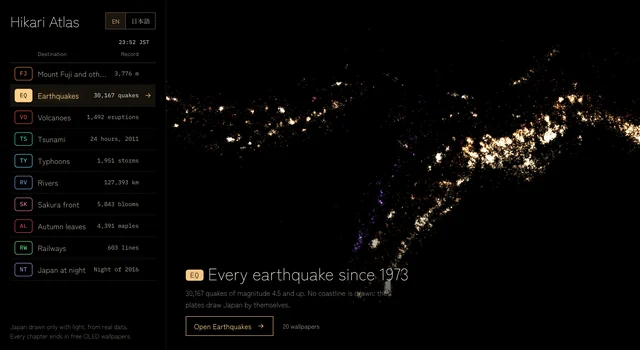
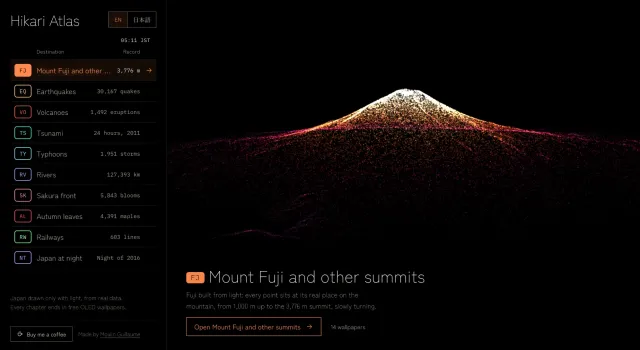
[UPDATE] Hikari Atlas hero shot and project copy
The hero and project card now show the front page with the live Fuji animation, which presents the whole atlas instead of a single wallpaper. The tagline, stinger and goal text in EN and FR now describe the full project and its ten chapters rather than a few datasets, and no longer mention the original idea's creator.

diff --git a/src/app/i18n/projects.ts b/src/app/i18n/projects.ts
@@ -307,12 +307,12 @@ type CopyBySlug = Record<string, ProjectCopy>;
 const EN_COPY: CopyBySlug = {
 	"hikari-atlas": {
 		tagline:
-			"Japan drawn only with light, from real scientific data, and given away as free OLED wallpapers.",
+			"An atlas of Japan drawn only with light, where every picture comes from real scientific data.",
 		stinger:
-			"Every earthquake since 1973, every typhoon since 1951 and every river in the country, turned into 45 wallpapers whose unlit pixels are switched off.",
+			"Ten subjects, from Mount Fuji to the country at night, each in its own colour of light. Every chapter animates its data live, explains how it was drawn, and ends in free wallpapers.",
 		goal: [
-			"On an OLED screen a black pixel is not dark, it is off. I liked the idea of wallpapers built on that: images made only of light, where everything that is not data costs nothing. The idea is not mine. Blackbody, by Alistair Roberts, does it for science in general, and the site credits it. What I wanted was the same idea pointed at one country, the one I lived in for eight years, with its own data, its own renders and a site that looks nothing like the original.",
-			"Japan is an unusually good subject for it. It shakes, erupts, floods and blooms on a schedule, and its agencies publish all of it. The earthquakes draw the plate boundaries without a single line of coast, the rivers draw the islands by themselves, and the railways draw the cities.",
+			"On an OLED screen a black pixel is not dark, it is off. Hikari Atlas is built on that idea: Japan drawn only with light, where everything that is not data stays switched off. I wanted to take the country I lived in for eight years and see how much of it could be told with real data alone, one subject at a time, each in its own colour.",
+			"Japan is an unusually good subject for it. It shakes, erupts, floods and blooms on a schedule, and its agencies publish all of it. Each chapter shows a different side of it: the earthquakes trace the plate boundaries without a single line of coast, the rivers draw the islands by themselves, the sakura and autumn fronts cross them with the seasons, and the railways and the night lights show where people live.",
 			"The other goal was the one behind The Obsidian Table, pushed further: see how far I could get by directing an AI agent on something I could not have built alone, in fields I did not know. Seismology, hydrology, tsunami simulation and seasonal phenology were not on my CV, and I wanted to understand how each picture was made, not just to own it.",
 		],
 		role: [
@@ -550,12 +550,12 @@ const EN_COPY: CopyBySlug = {
 const FR_COPY: CopyBySlug = {
 	"hikari-atlas": {
 		tagline:
-			"Le Japon dessiné uniquement avec de la lumière, à partir de vraies données scientifiques, et offert en fonds d'écran OLED gratuits.",
+			"Un atlas du Japon dessiné uniquement avec de la lumière, où chaque image vient de vraies données scientifiques.",
 		stinger:
-			"Chaque séisme depuis 1973, chaque typhon depuis 1951 et chaque rivière du pays, transformés en 45 fonds d'écran dont les pixels non éclairés sont éteints.",
+			"Dix sujets, du mont Fuji au pays de nuit, chacun dans sa propre couleur de lumière. Chaque chapitre anime ses données en direct, explique comment il a été dessiné, et se termine par des fonds d'écran gratuits.",
 		goal: [
-			"Sur un écran OLED, un pixel noir n'est pas sombre, il est éteint. L'idée de fonds d'écran construits là-dessus me plaisait : des images faites uniquement de lumière, où tout ce qui n'est pas de la donnée ne coûte rien. L'idée n'est pas de moi. Blackbody, d'Alistair Roberts, le fait pour la science en général, et le site le crédite. Ce que je voulais, c'était la même idée tournée vers un seul pays, celui où j'ai vécu huit ans, avec ses propres données, ses propres rendus et un site qui ne ressemble en rien à l'original.",
-			"Le Japon s'y prête particulièrement bien. Il tremble, entre en éruption, déborde et fleurit selon un calendrier, et ses agences publient tout. Les séismes dessinent les frontières des plaques sans une seule ligne de côte, les rivières dessinent les îles d'elles-mêmes, et les chemins de fer dessinent les villes.",
+			"Sur un écran OLED, un pixel noir n'est pas sombre, il est éteint. Hikari Atlas part de cette idée : le Japon dessiné uniquement avec de la lumière, où tout ce qui n'est pas de la donnée reste éteint. Je voulais prendre le pays où j'ai vécu huit ans et voir tout ce qu'on pouvait en raconter avec de vraies données seules, un sujet à la fois, chacun dans sa propre couleur.",
+			"Le Japon s'y prête particulièrement bien. Il tremble, entre en éruption, déborde et fleurit selon un calendrier, et ses agences publient tout. Chaque chapitre en montre une autre facette : les séismes tracent les frontières des plaques sans une seule ligne de côte, les rivières dessinent les îles d'elles-mêmes, les fronts des cerisiers et des érables les traversent au fil des saisons, et les chemins de fer et les lumières de la nuit montrent où vivent les gens.",
 			"L'autre objectif était celui de The Obsidian Table, poussé plus loin : voir jusqu'où je pouvais aller en dirigeant un agent IA sur quelque chose que je n'aurais pas pu construire seul, dans des domaines que je ne connaissais pas. Sismologie, hydrologie, simulation de tsunami et phénologie n'étaient pas sur mon CV, et je voulais comprendre comment chaque image était faite, pas seulement la posséder.",
 		],
 		role: [
